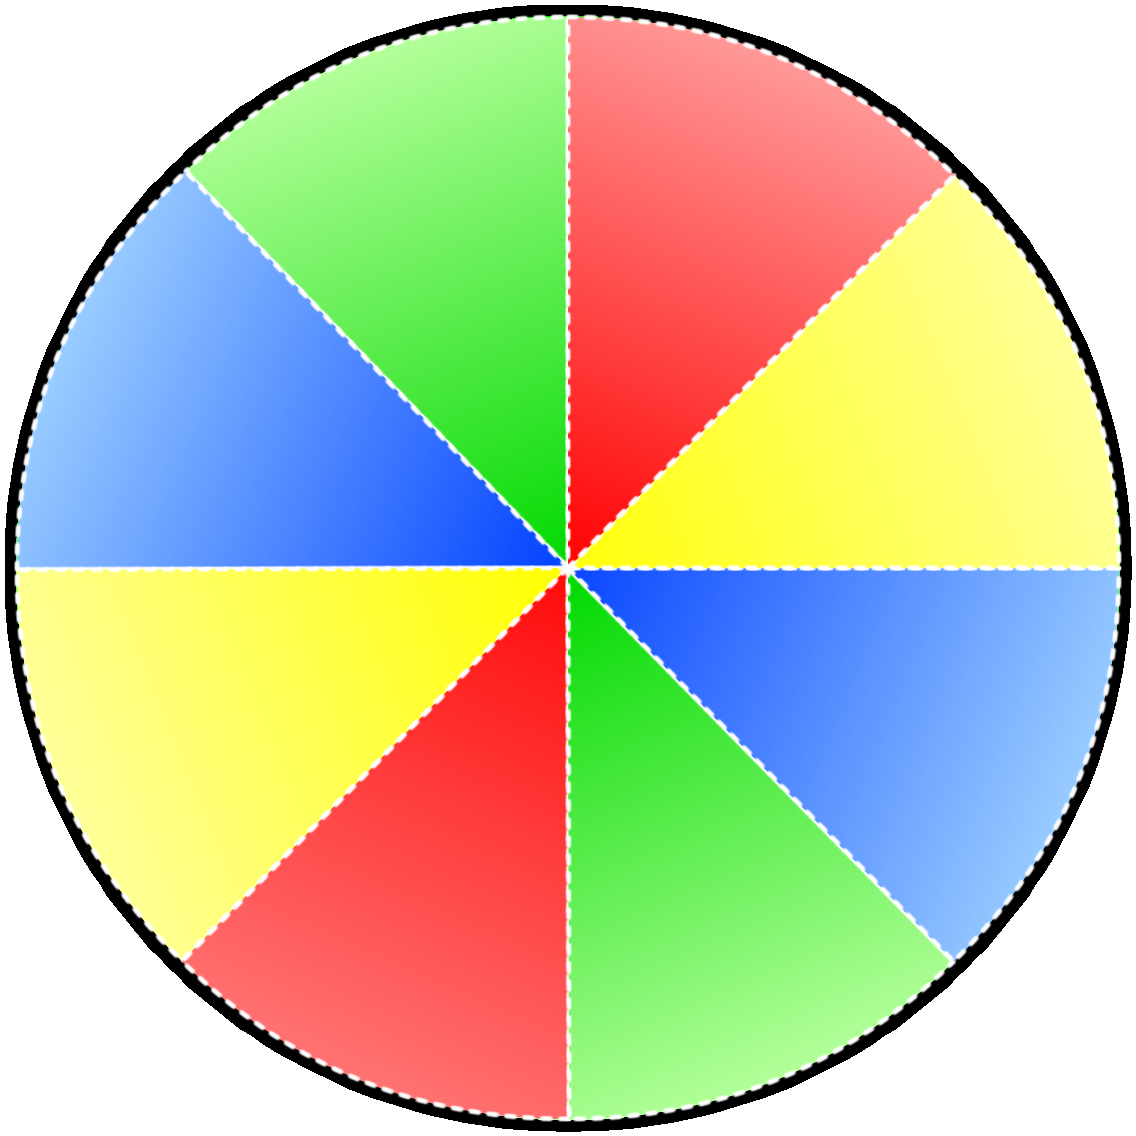
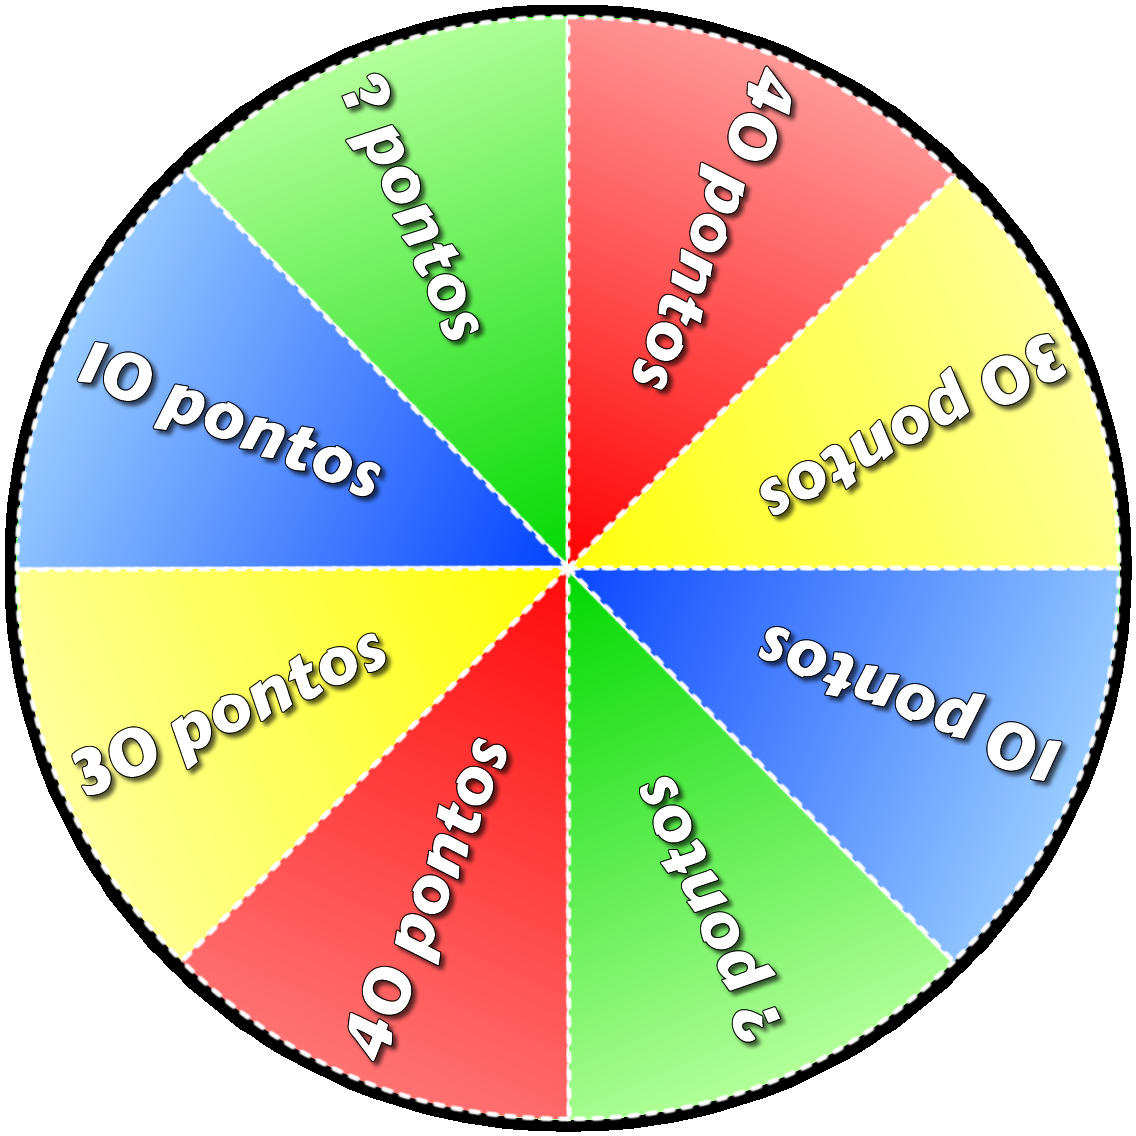
Roleta, bugs e splash

diff --git a/Assets/Scripts/controller/NucleoController.cs b/Assets/Scripts/controller/NucleoController.cs
@@ -49,28 +49,30 @@ public class NucleoController
 
     public void acaoAmarelo(){
         currentEquation = ControladorEquacoes.instance().pegarEquacao("Médio");
-        pontuacaoAcerto = 30;
-        pontuacaoErro = 0;
+        pontuacaoAcerto += 30;
     }
 
     public void acaoAzul() {
         currentEquation = ControladorEquacoes.instance().pegarEquacao("Facil");
-        pontuacaoAcerto = 10;
-        pontuacaoErro = 0;
+        pontuacaoAcerto += 10;
     }
 
     public void acaoVermelho() {
         currentEquation = ControladorEquacoes.instance().pegarEquacao("Dificil");
-        pontuacaoAcerto = 40;
-        pontuacaoErro = 0;
+        pontuacaoAcerto += 40;
     }
 
     public void acaoVerde() {
         executarAcao(new System.Random().Next(1, 7));
-        pontuacaoAcerto = 50;
-        pontuacaoErro = -20;
+        pontuacaoAcerto += 20;
+        pontuacaoErro += -20;
     }
 
+
+    public void zerarPontuacoes() {
+        pontuacaoAcerto = 0;
+        pontuacaoErro = 0;
+    }
 
     public void executarAcao(int acao) {
         if (acao == 1 || acao == 5){

diff --git a/Assets/Scripts/controller/ControladorEquacoes.cs b/Assets/Scripts/controller/ControladorEquacoes.cs
@@ -60,6 +60,7 @@ public class ControladorEquacoes {
         while(count < 30){
             int indice = random.Next(0, quantidade - 1); //Quantidade tem um a mais que o vetor
             if (!listaEquacao[indice].Utilizada){
+                listaEquacao[indice].Utilizada = true;
                 return listaEquacao[indice];
             } 
             count++;

diff --git a/Assets/Scripts/controller/SorteioMotor.cs b/Assets/Scripts/controller/SorteioMotor.cs
@@ -17,6 +17,7 @@ public class SorteioMotor : MonoBehaviour
     void Start(){
         ScenesMaintenerController.Instance.playMainSound();
         NucleoController nucleo = NucleoController.instance();
+        nucleo.zerarPontuacoes();
         rodada.text = nucleo.rodada.ToString();
 
         if (nucleo.jogadores.Count==1){
